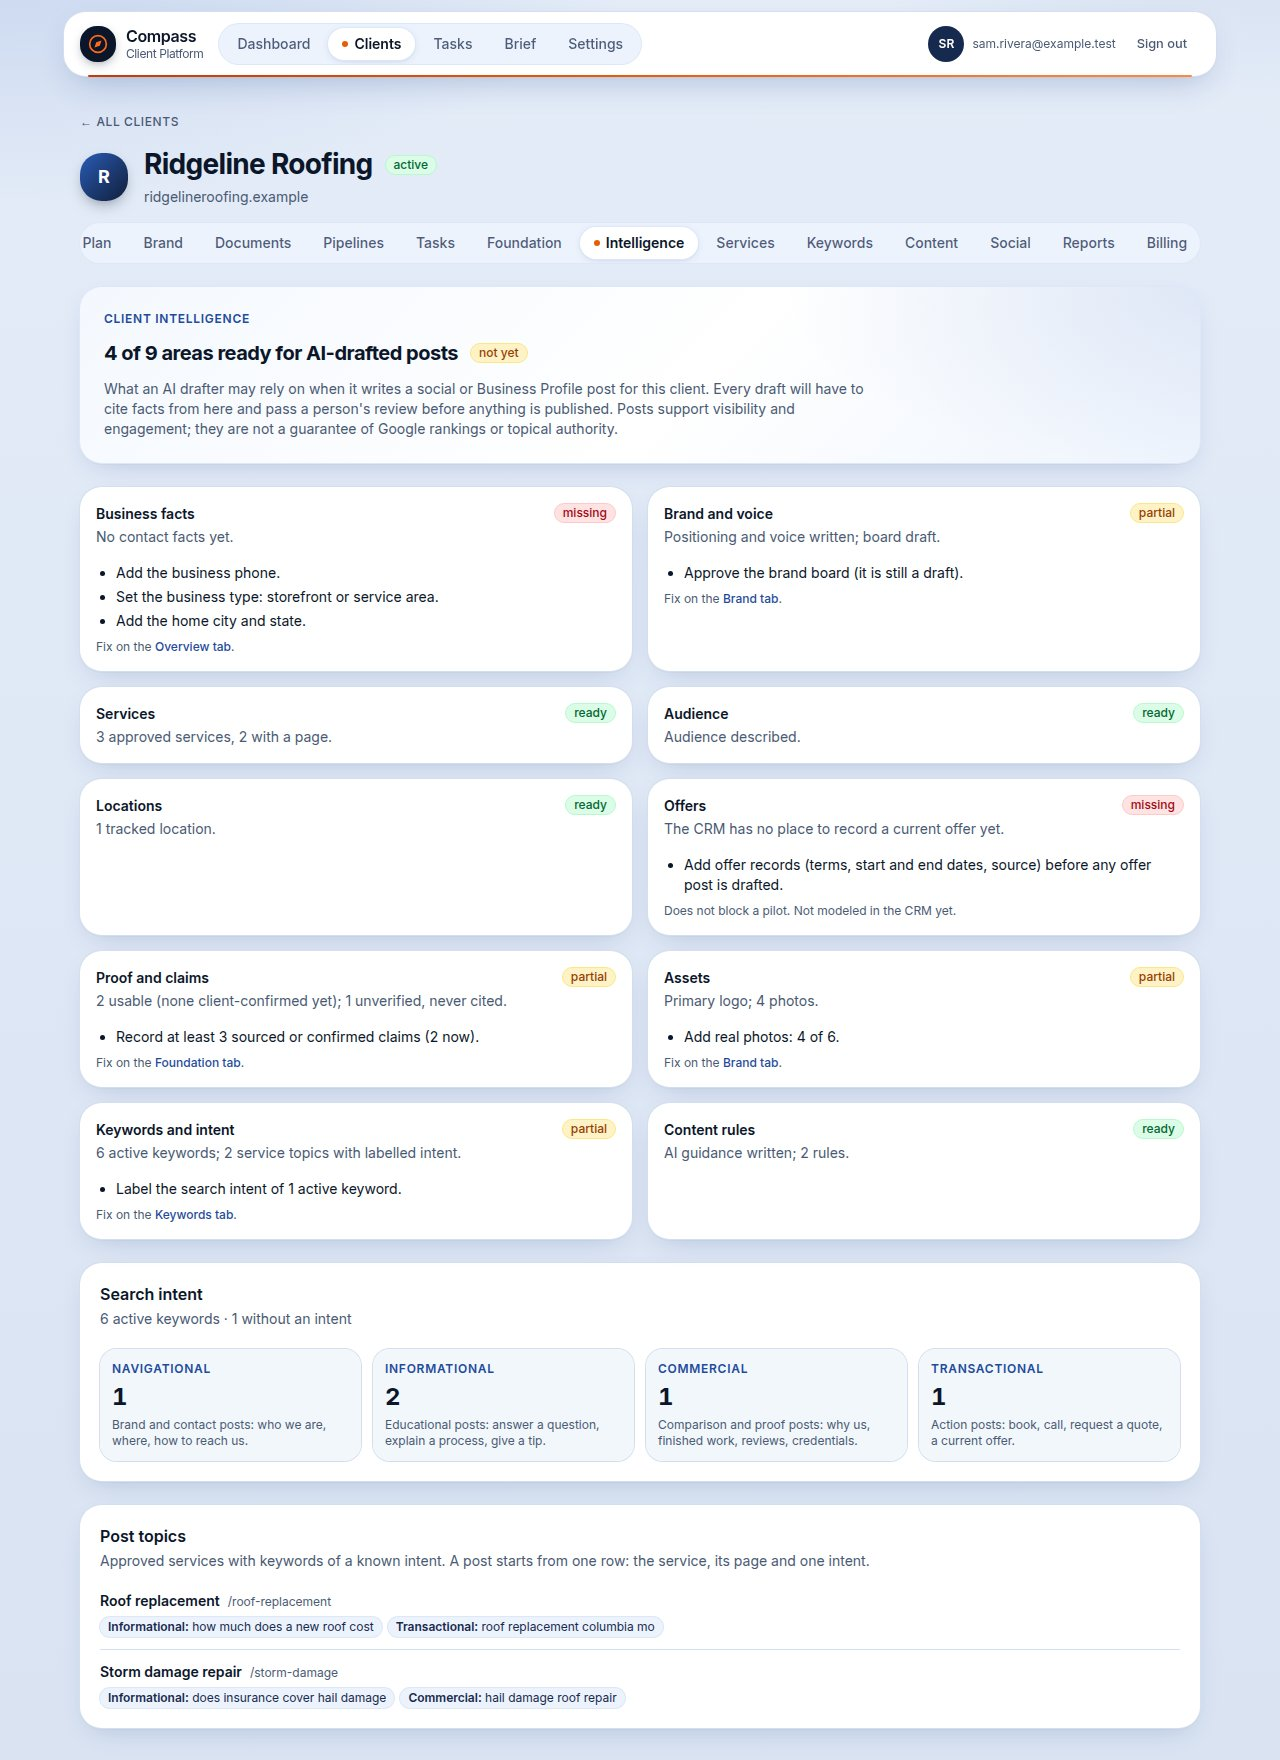
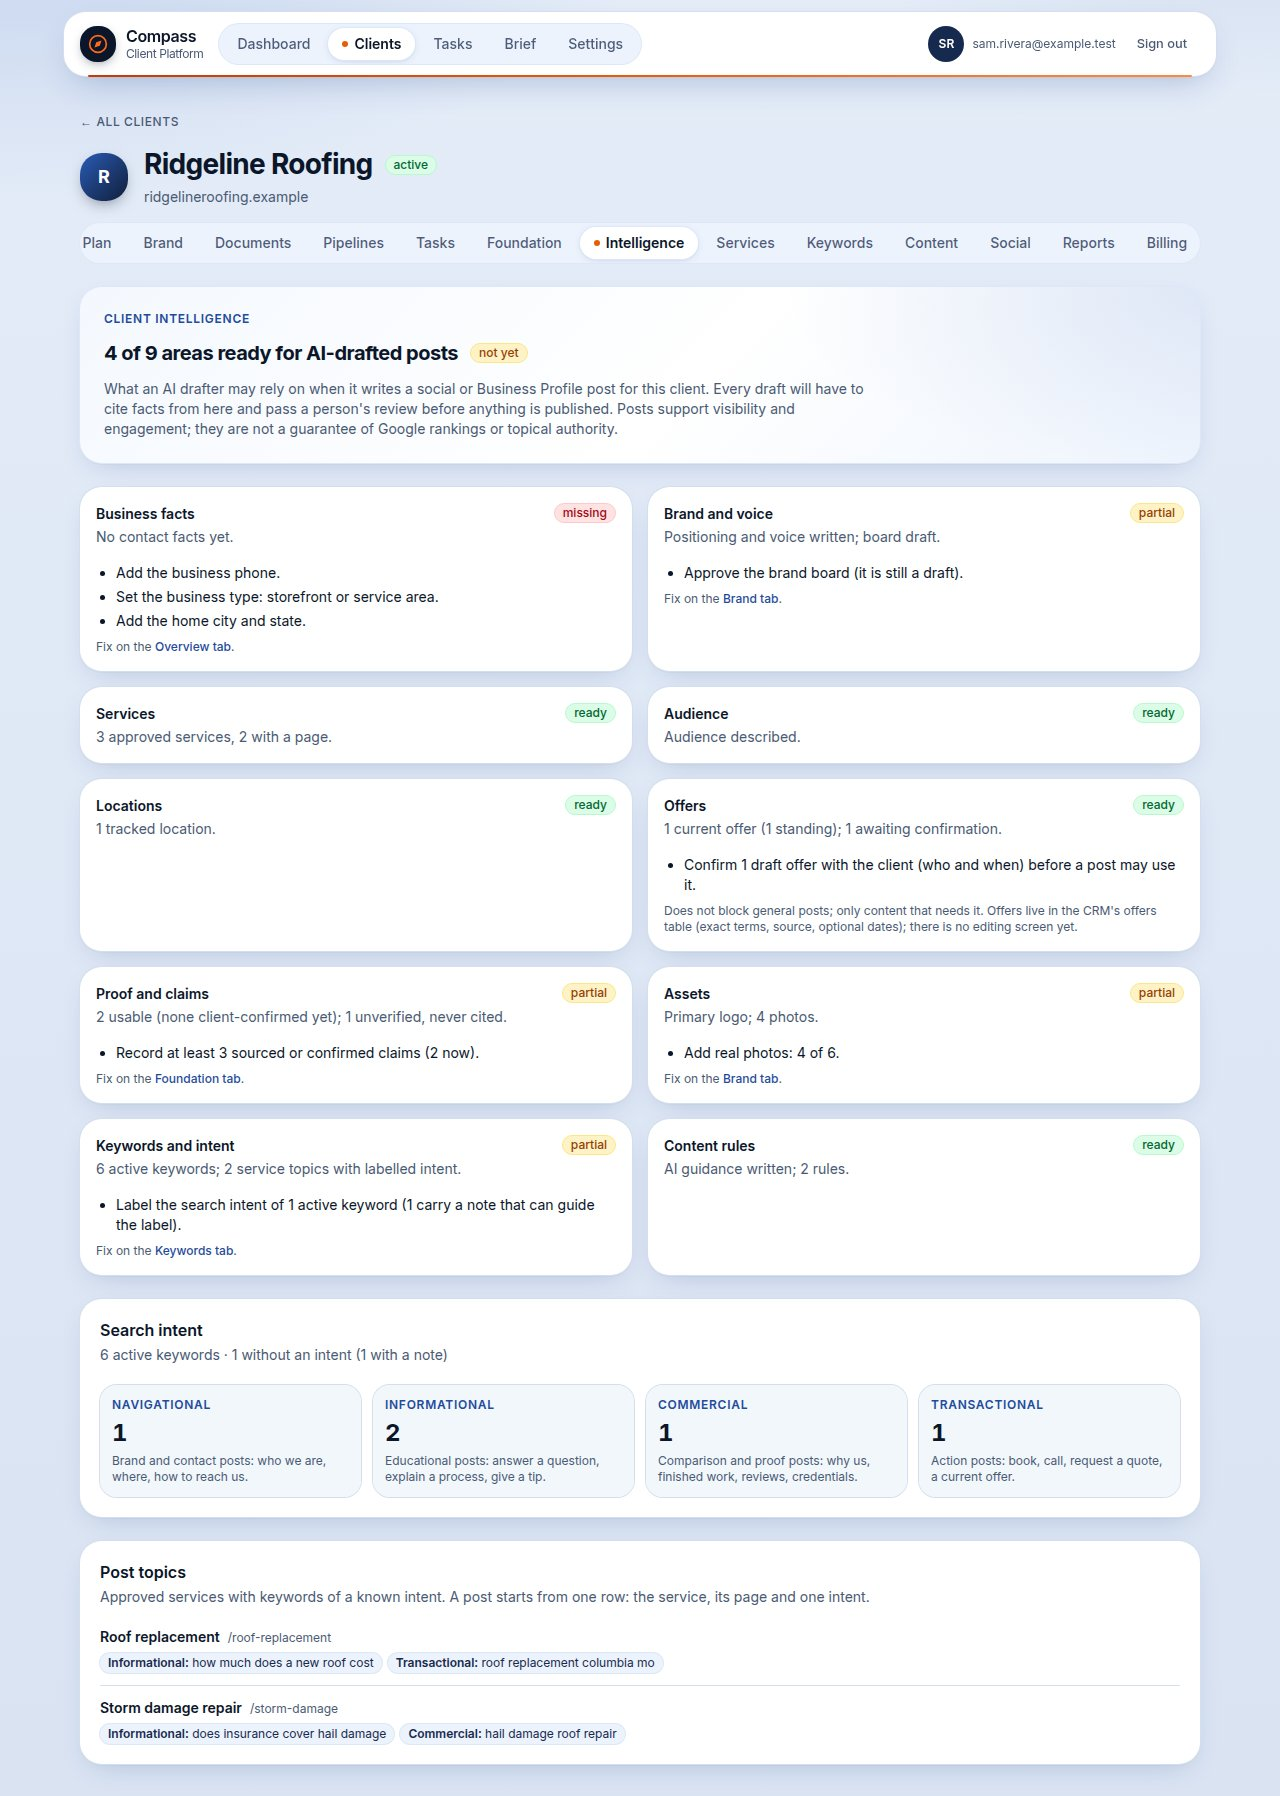
Reconcile the app with 0044: intent_note shown, offers read
The smallest follow-up to 0044 (applied Sept 23 as 20260923164846).
No schema change; the types were regenerated in #55.

- Foundation keyword map: selects intent_note and shows it on its own
  line under the intent ("no intent" when there is none), so a note is
  never displayed as a search intent.
- Client Intelligence (src/lib/client-intelligence.ts):
  - offerState() places an offer on a day: current (confirmed and in its
    window, or standing with no dates), upcoming, ended, awaiting
    confirmation (draft) or retired; currentOffers() lists the ones a
    post may mention today.
  - The Offers area reads the real offers table: ready with a current
    offer, partial with only drafts / upcoming / ended ones, missing with
    none. It never blocks the general pilot; pilotReadiness(areas,
    { needsOffer: true }) makes it blocking for offer content only.
  - Keywords without an intent report how many carry an intent_note that
    can guide the label.
- Intelligence tab: loads offers and intent_note, judges offers on the
  Central-time day, and says plainly there is no offer editing screen
  yet.
- Tests: 3 new cases (offer states, offers readiness incl. needsOffer,
  notes guiding labels); fixtures carry intent_note and offers.
- Preview fixtures and screenshots updated; AGENTS.md and
  docs/client-intelligence.md describe the behavior.

Claude-Session: https://claude.ai/code/session_013WBwmk62q2ig5GYJra6m4y

diff --git a/src/lib/client-intelligence.ts b/src/lib/client-intelligence.ts
@@ -41,11 +41,20 @@ export type IntelligenceInput = {
   > | null;
   board: Pick<Row<"brand_boards">, "status" | "hard_rules" | "standing_cta"> | null;
   services: Pick<Row<"services">, "id" | "name" | "status" | "page_url" | "primary_keyword_id" | "parent_service_id">[];
-  keywords: Pick<Row<"keywords">, "id" | "keyword" | "intent" | "is_active" | "is_tracked" | "is_money" | "service_id" | "target_url" | "priority">[];
+  keywords: Pick<Row<"keywords">, "id" | "keyword" | "intent" | "intent_note" | "is_active" | "is_tracked" | "is_money" | "service_id" | "target_url" | "priority">[];
   claims: Pick<Row<"claims">, "id" | "claim" | "status" | "source">[];
   locations: Pick<Row<"locations">, "name" | "city" | "state" | "is_active">[];
   assets: Pick<Row<"brand_assets">, "kind">[];
+  offers: OfferRow[];
+  // The day offers are judged against (YYYY-MM-DD, Compass's Central day).
+  // Defaults to today in UTC when omitted.
+  asOf?: string;
 };
+
+export type OfferRow = Pick<
+  Row<"offers">,
+  "id" | "title" | "terms" | "source" | "status" | "starts_on" | "ends_on" | "confirmed_by" | "confirmed_on" | "service_id"
+>;
 
 export type AreaStatus = "ready" | "partial" | "missing";
 
@@ -76,14 +85,39 @@ export function intentCounts(keywords: IntelligenceInput["keywords"]) {
   const active = keywords.filter((k) => k.is_active);
   const counts = Object.fromEntries(SEARCH_INTENTS.map((i) => [i, 0])) as Record<SearchIntent, number>;
   let unlabelled = 0;
+  let unlabelledWithNote = 0;
+  // Since 0044 the database refuses anything but the four intents, so this
+  // stays 0; it is kept so rows from before the constraint read honestly.
   let nonStandard = 0;
   for (const k of active) {
     const intent = normalizeIntent(k.intent);
     if (intent) counts[intent] += 1;
     else if (filled(k.intent)) nonStandard += 1;
-    else unlabelled += 1;
+    else {
+      unlabelled += 1;
+      if (filled(k.intent_note)) unlabelledWithNote += 1;
+    }
   }
-  return { active: active.length, counts, unlabelled, nonStandard };
+  return { active: active.length, counts, unlabelled, unlabelledWithNote, nonStandard };
+}
+
+export type OfferState = "current" | "upcoming" | "ended" | "awaiting_confirmation" | "retired";
+
+// Where an offer stands on a given day. Only a confirmed offer can be
+// current; dates are optional (a standing offer has none). Channel rules,
+// such as a GBP Offer post needing a date window, are not decided here.
+export function offerState(offer: OfferRow, asOf: string): OfferState {
+  if (offer.status === "retired") return "retired";
+  if (offer.status !== "confirmed") return "awaiting_confirmation";
+  if (offer.starts_on && offer.starts_on > asOf) return "upcoming";
+  if (offer.ends_on && offer.ends_on < asOf) return "ended";
+  return "current";
+}
+
+// Offers a post may mention today: confirmed, and in their window if they
+// have one.
+export function currentOffers(offers: OfferRow[], asOf: string) {
+  return offers.filter((o) => offerState(o, asOf) === "current");
 }
 
 export type TopicCandidate = {
@@ -210,16 +244,38 @@ export function assessIntelligence(input: IntelligenceInput): AreaReport[] {
     });
   }
 
-  // 6. Offers: not modeled in the CRM yet. Posts can run without one; an
-  //    "offer" post cannot, and must never invent terms.
-  add({
-    key: "offers",
-    label: "Offers",
-    summary: "The CRM has no place to record a current offer yet.",
-    gaps: ["Add offer records (terms, start and end dates, source) before any offer post is drafted."],
-    blocking: false,
-    status: "missing",
-  });
+  // 6. Offers. General posts run without one, so offers never block the
+  //    pilot; content that needs an offer asks pilotReadiness for it.
+  {
+    const asOf = input.asOf ?? new Date().toISOString().slice(0, 10);
+    const by = (state: OfferState) => input.offers.filter((o) => offerState(o, asOf) === state);
+    const current = by("current");
+    const upcoming = by("upcoming").length;
+    const ended = by("ended").length;
+    const drafts = by("awaiting_confirmation").length;
+    const standing = current.filter((o) => !o.starts_on && !o.ends_on).length;
+    const gaps: string[] = [];
+    if (drafts) gaps.push(`Confirm ${plural(drafts, "draft offer")} with the client (who and when) before a post may use it.`);
+    if (!current.length && ended && !drafts && !upcoming) gaps.push("Every confirmed offer has ended; record the current one, if there is one.");
+    if (!current.length && !input.offers.some((o) => o.status !== "retired"))
+      gaps.push("No offers recorded. General posts don't need one; record the exact terms and source before any offer post.");
+    const parts = [
+      current.length
+        ? `${plural(current.length, "current offer")}${standing ? ` (${standing} standing)` : ""}`
+        : "No current offer",
+      upcoming ? `${upcoming} upcoming` : null,
+      drafts ? `${drafts} awaiting confirmation` : null,
+      ended ? `${ended} ended` : null,
+    ].filter(Boolean);
+    add({
+      key: "offers",
+      label: "Offers",
+      summary: `${parts.join("; ")}.`,
+      gaps,
+      blocking: false,
+      status: current.length ? "ready" : input.offers.some((o) => o.status !== "retired") ? "partial" : "missing",
+    });
+  }
 
   // 7. Proof: the facts a post may cite.
   {
@@ -261,10 +317,14 @@ export function assessIntelligence(input: IntelligenceInput): AreaReport[] {
 
   // 9. Keywords and search intent.
   {
-    const { active, unlabelled, nonStandard } = intentCounts(input.keywords);
+    const { active, unlabelled, unlabelledWithNote, nonStandard } = intentCounts(input.keywords);
     const gaps: string[] = [];
     if (active === 0) gaps.push("Run Keyword Research.");
-    if (unlabelled) gaps.push(`Label the search intent of ${plural(unlabelled, "active keyword")}.`);
+    if (unlabelled)
+      gaps.push(
+        `Label the search intent of ${plural(unlabelled, "active keyword")}` +
+          (unlabelledWithNote ? ` (${unlabelledWithNote} ${unlabelledWithNote === 1 ? "has" : "have"} a note that can guide the label).` : ".")
+      );
     if (nonStandard)
       gaps.push(`${plural(nonStandard, "keyword")} carry a note instead of an intent; move the note and set navigational, informational, commercial or transactional.`);
     const topics = topicCandidates(input).length;
@@ -299,9 +359,10 @@ export function assessIntelligence(input: IntelligenceInput): AreaReport[] {
   return areas;
 }
 
-// Ready for a drafting pilot when every blocking area is ready.
-export function pilotReadiness(areas: AreaReport[]) {
-  const blocking = areas.filter((a) => a.blocking);
+// Ready for a drafting pilot when every blocking area is ready. Offers only
+// block content that needs one (an offer post): pass { needsOffer: true }.
+export function pilotReadiness(areas: AreaReport[], { needsOffer = false }: { needsOffer?: boolean } = {}) {
+  const blocking = areas.filter((a) => a.blocking || (needsOffer && a.key === "offers"));
   const ready = blocking.filter((a) => a.status === "ready").length;
   return { ready, total: blocking.length, isReady: ready === blocking.length };
 }

diff --git a/src/app/(app)/clients/[clientId]/intelligence/page.tsx b/src/app/(app)/clients/[clientId]/intelligence/page.tsx
@@ -11,6 +11,7 @@ import {
   topicCandidates,
   type AreaStatus,
 } from "@/lib/client-intelligence";
+import { todayIn } from "@/lib/tasks";
 import { cn } from "@/lib/utils";
 
 const statusStyles: Record<AreaStatus, string> = {
@@ -33,6 +34,11 @@ const fixTab: Record<string, { label: string; segment: string } | null> = {
   rules: { label: "Brand", segment: "brand" },
 };
 
+// Areas with no tab to fix them in yet.
+const noFixTab: Record<string, string> = {
+  offers: "Offers live in the CRM's offers table (exact terms, source, optional dates); there is no editing screen yet.",
+};
+
 export default async function IntelligencePage({
   params,
 }: {
@@ -41,7 +47,7 @@ export default async function IntelligencePage({
   const { clientId } = await params;
   const supabase = await createClient();
 
-  const [client, brand, board, services, keywords, claims, locations, assets] = await Promise.all([
+  const [client, brand, board, services, keywords, claims, locations, assets, offers] = await Promise.all([
     supabase
       .from("clients")
       .select("name, phone, website_url, city, state, service_area, business_type, address_line1")
@@ -66,14 +72,18 @@ export default async function IntelligencePage({
       .order("sort_order"),
     supabase
       .from("keywords")
-      .select("id, keyword, intent, is_active, is_tracked, is_money, service_id, target_url, priority")
+      .select("id, keyword, intent, intent_note, is_active, is_tracked, is_money, service_id, target_url, priority")
       .eq("client_id", clientId),
     supabase.from("claims").select("id, claim, status, source").eq("client_id", clientId),
     supabase.from("locations").select("name, city, state, is_active").eq("client_id", clientId),
     supabase.from("brand_assets").select("kind").eq("client_id", clientId),
+    supabase
+      .from("offers")
+      .select("id, title, terms, source, status, starts_on, ends_on, confirmed_by, confirmed_on, service_id")
+      .eq("client_id", clientId),
   ]);
 
-  const error = [client, brand, board, services, keywords, claims, locations, assets].find((r) => r.error)?.error;
+  const error = [client, brand, board, services, keywords, claims, locations, assets, offers].find((r) => r.error)?.error;
   if (error || !client.data) {
     return (
       <p role="alert" className="callout border-red-200 bg-red-50 text-red-900">
@@ -91,6 +101,8 @@ export default async function IntelligencePage({
     claims: claims.data ?? [],
     locations: locations.data ?? [],
     assets: assets.data ?? [],
+    offers: offers.data ?? [],
+    asOf: todayIn(),
   };
   const areas = assessIntelligence(input);
   const pilot = pilotReadiness(areas);
@@ -144,7 +156,7 @@ export default async function IntelligencePage({
                     </ul>
                   )}
                   <p className="text-xs text-muted-foreground">
-                    {!a.blocking && "Does not block a pilot. "}
+                    {!a.blocking && "Does not block general posts; only content that needs it. "}
                     {fix ? (
                       <>
                         Fix on the{" "}
@@ -157,7 +169,7 @@ export default async function IntelligencePage({
                         .
                       </>
                     ) : (
-                      "Not modeled in the CRM yet."
+                      noFixTab[a.key] ?? null
                     )}
                   </p>
                 </CardContent>
@@ -173,6 +185,7 @@ export default async function IntelligencePage({
           <p className="text-sm text-muted-foreground">
             {intents.active} active keywords
             {intents.unlabelled ? ` · ${intents.unlabelled} without an intent` : ""}
+            {intents.unlabelledWithNote ? ` (${intents.unlabelledWithNote} with a note)` : ""}
             {intents.nonStandard ? ` · ${intents.nonStandard} with a note instead of an intent` : ""}
           </p>
         </CardHeader>

diff --git a/src/app/(app)/clients/[clientId]/foundation/page.tsx b/src/app/(app)/clients/[clientId]/foundation/page.tsx
@@ -122,7 +122,7 @@ export default async function FoundationPage({
     supabase
       .from("keywords")
       .select(
-        "id, keyword, priority, volume, cpc, competition, intent, city, is_tracked, is_money, is_active, target_url"
+        "id, keyword, priority, volume, cpc, competition, intent, intent_note, city, is_tracked, is_money, is_active, target_url"
       )
       .eq("client_id", clientId)
       .order("is_money", { ascending: false })
@@ -1177,8 +1177,20 @@ export default async function FoundationPage({
                             <Badge variant="outline" className="text-[10px]">tracked</Badge>
                           )}
                         </td>
-                        <td className="py-1 pr-2 max-w-72 truncate text-muted-foreground" title={k.intent ?? undefined}>
-                          {k.intent ?? ""}
+                        {/* The search intent (one of four, or none) and the
+                            free-text note (0044) stay separate: a note is
+                            never shown as if it were an intent. */}
+                        <td className="py-1 pr-2 max-w-72 text-muted-foreground">
+                          {k.intent ? (
+                            <span className="font-medium text-navy-700">{k.intent}</span>
+                          ) : (
+                            <span className="italic">no intent</span>
+                          )}
+                          {k.intent_note && (
+                            <span className="block truncate text-xs" title={k.intent_note}>
+                              {k.intent_note}
+                            </span>
+                          )}
                         </td>
                         <td className="py-1 pr-2 max-w-48 truncate text-muted-foreground">{k.target_url ?? ""}</td>
                       </tr>

diff --git a/docs/client-intelligence.md b/docs/client-intelligence.md
@@ -16,10 +16,10 @@ go-live (`docs/portal-reconciliation.md`).
 | Services | `services` (taxonomy, `page_url`, `primary_keyword_id`) | 112 approved; several clients have none mapped to a page |
 | Audience | `client_brands.audience` | written |
 | Locations | `locations` (lat/lng, physical flag), `clients.service_area` | at least one per client |
-| Offers | — | **not modeled** |
+| Offers | `offers` (0044: exact terms, source, optional dates, draft / confirmed / retired) | table live, **0 offers recorded**; no editing screen yet |
 | Proof | `claims` (`sourced` / `unverified` / `confirmed`, `source`) | 63 sourced, 31 unverified, **0 client-confirmed** |
 | Assets | `brand_assets` (logos, photos, labels, sizes) | 84 photos, 8 primary logos |
-| Keywords and intent | `keywords` (`intent` text, `service_id`, money / tracked flags), `page_groups`, `money_keywords` | 414 labelled with one of the four intents, 78 blank, **55 carry notes instead of an intent** (all Shewmaker, the blueprint record) |
+| Keywords and intent | `keywords` (`intent`, constrained to the four intents or NULL since 0044; `intent_note`; `service_id`; money / tracked flags), `page_groups`, `money_keywords` | 414 labelled with one of the four intents, 133 without an intent (55 of them Shewmaker rows whose former free-text intent now sits in `intent_note`) |
 | Content rules | `client_brands` (AI guidance, words to use / avoid, pillars), `brand_boards.hard_rules` | written |
 | Posts | `social_posts` (platform, copy, status), `content_posts` (blog) | 0 social rows; **GBP posts have no CRM record** — `google-ops gbp_posts` sends straight to Google |
 
@@ -58,8 +58,9 @@ go-live (`docs/portal-reconciliation.md`).
    programs) have no set expiry; when both are present the end cannot
    precede the start. Verified on production: 547 rows, 414 intents
    unchanged, 133 NULL, 55 notes identical to their pre-apply text, 0
-   nonstandard; types regenerated. Follow-ups: show `intent_note` in the
-   Foundation keyword map, and read `offers` on the Intelligence tab.
+   nonstandard; types regenerated. Reconciled in the app: the Foundation
+   keyword map shows the intent and the note separately, and the
+   Intelligence tab reads `offers` (below).
 4. **The post record (migration 0045).** One table for GBP and social
    drafts: channel, service, keyword, intent, body, CTA, assets, cited
    claim ids, status `draft → in_review → approved → published | rejected`,
@@ -84,6 +85,19 @@ go-live (`docs/portal-reconciliation.md`).
    the scorecard records posts published, profile views and calls as
    measured values. Candidate: **Pensacola Equipment Rentals**, 8 of 9
    areas ready (only its brand board approval is open).
+
+## How the Intelligence tab reads offers
+
+`offerState()` places each offer on the Central-time day: **current**
+(confirmed and inside its window, or a standing offer with no dates),
+**upcoming** (confirmed, starts later), **ended** (confirmed, its end date
+passed), **awaiting confirmation** (draft) or **retired** (ignored). The
+Offers area is ready with at least one current offer, partial with only
+drafts, upcoming or ended ones, and missing with none. It never blocks the
+general pilot: `pilotReadiness(areas)` counts nine areas, and only content
+that needs an offer asks `pilotReadiness(areas, { needsOffer: true })`,
+which makes offers blocking. Channel rules (a GBP Offer post's date window)
+stay with publishing.
 
 ## Readiness in production (Sept 23 2026)
 

diff --git a/AGENTS.md b/AGENTS.md
@@ -851,8 +851,14 @@ needs who confirmed it and when). Channel date rules, such as a GBP Offer
 post's window, belong to the publishing layer. Verified on production after
 applying: 547 keywords, 414 with one of the four intents, 133 NULL, 55
 `intent_note` (all Shewmaker, identical to the pre-apply text), 0 nonstandard;
-`offers` under `is_team()` with no anon grants; types regenerated. The post
-record with a review gate is 0045 (not written).
+`offers` under `is_team()` with no anon grants; types regenerated. In the app,
+the Foundation keyword map shows `intent` and `intent_note` separately (a note
+is never shown as an intent), and the Intelligence tab's Offers area reads
+`offers`: ready with a current confirmed offer (a standing offer with no dates
+counts), partial with drafts / upcoming / ended ones, missing with none; it
+never blocks the general pilot, and `pilotReadiness(areas, { needsOffer: true
+})` makes it blocking for offer content only. There is no offer editing
+screen yet. The post record with a review gate is 0045 (not written).
 
 ## Client portal (Phase 5, Sept 17 2026)
 
